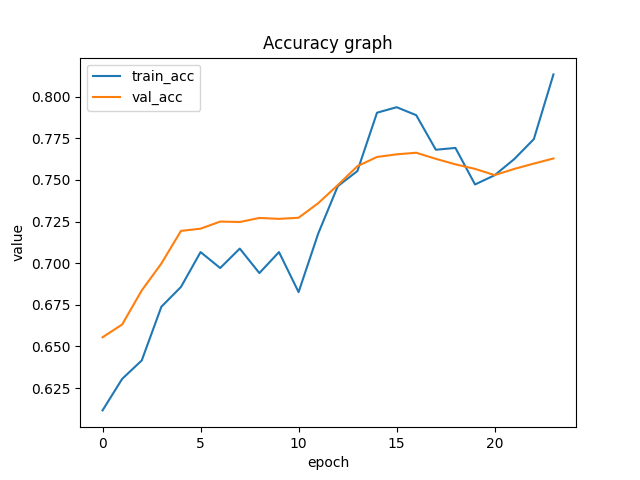
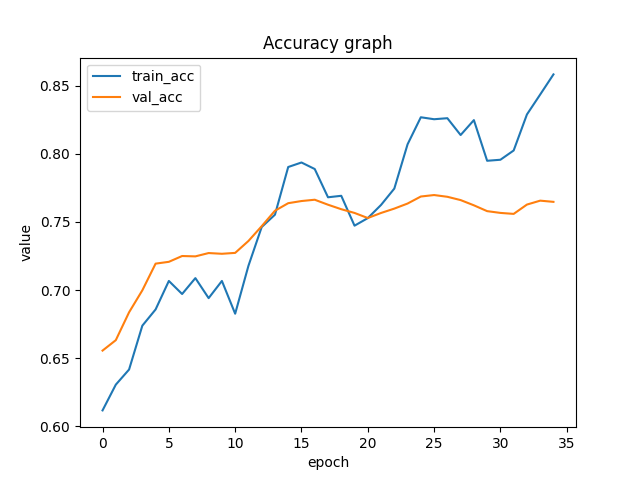
update

diff --git a/5.model.py b/5.model.py
@@ -322,11 +322,11 @@ if __name__ == '__main__':
   
   # Hyperparameters
   ## For model
-  interval = 7200 # 0 | 7200 | 21600 | 43200
-  model_name = "convnext-l" # convnext-s | convnext-b | convnext-l | vit-b | vit-l | swinv2-t | swinv2-b
+  interval = 0 # 0 | 7200 | 21600 | 43200
+  model_name = "convnext-b" # convnext-s | convnext-b | convnext-l | vit-b | vit-l | swinv2-t | swinv2-b
   model_option = "pretrained" # pretrained | custom
   num_classes = 5
-  stochastic_depth = 0.3 # 0.0 | 0.1 | 0.2 | 0.3 
+  stochastic_depth = 0.2 # 0.0 | 0.1 | 0.2 | 0.3 
   freeze = False
   checkpoint = False
   continue_training = False
@@ -527,7 +527,7 @@ if __name__ == '__main__':
       trainer.test(module)
       test_end_time = time.time() - test_start_time
       print(f"Evaluation time: {test_end_time} seconds")
-      
+
       # Plot loss and accuracy
       test_loss, tess_acc, best_epoch = plot_results(monitor_value, f"{model_path}/{new_version}")
       print(f"Best epoch [{monitor_value}]: {best_epoch}")
